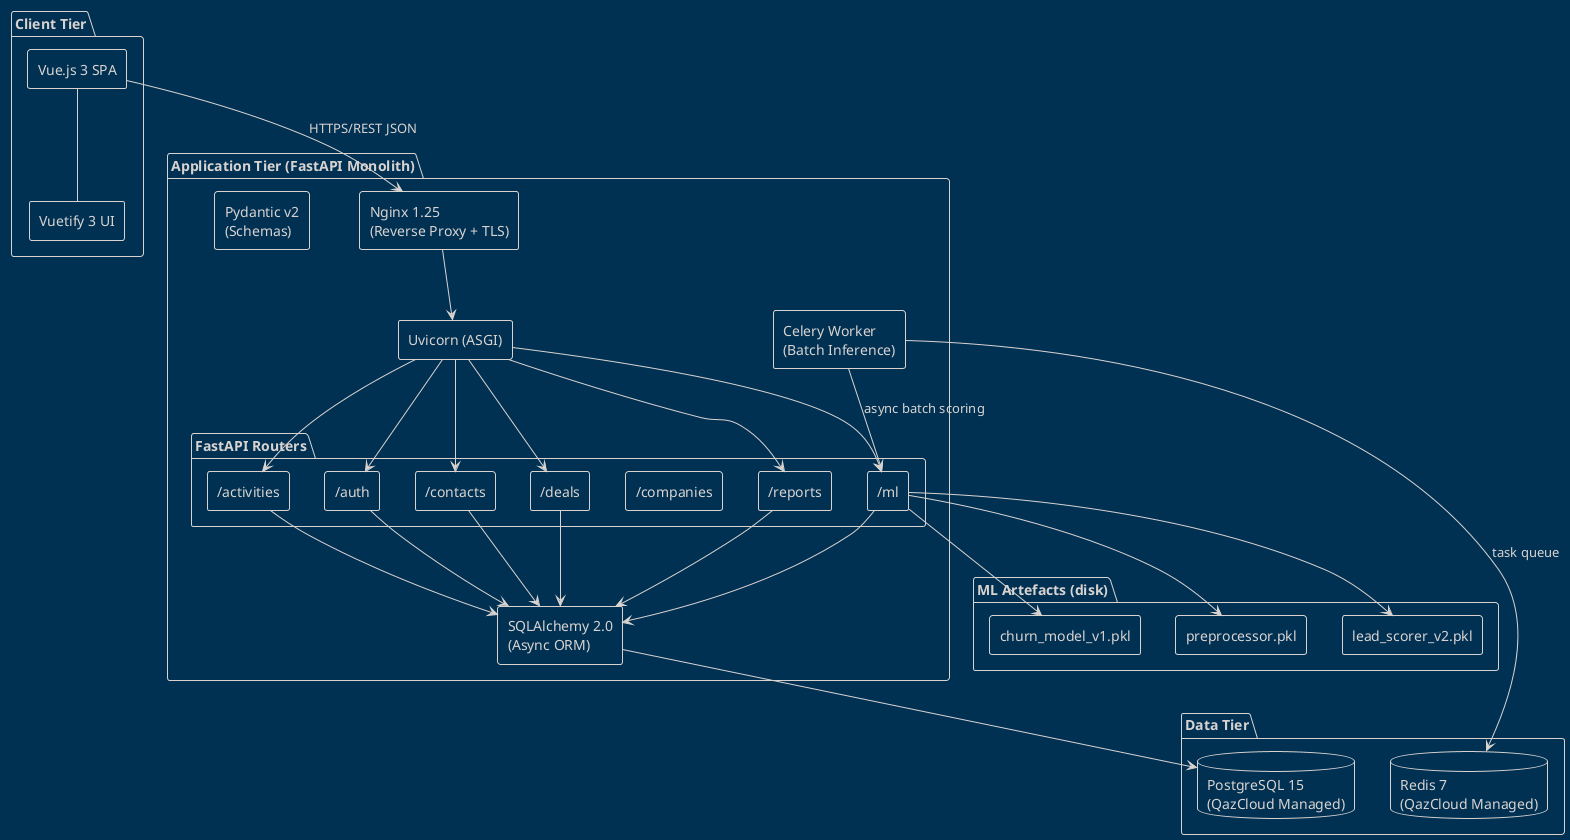
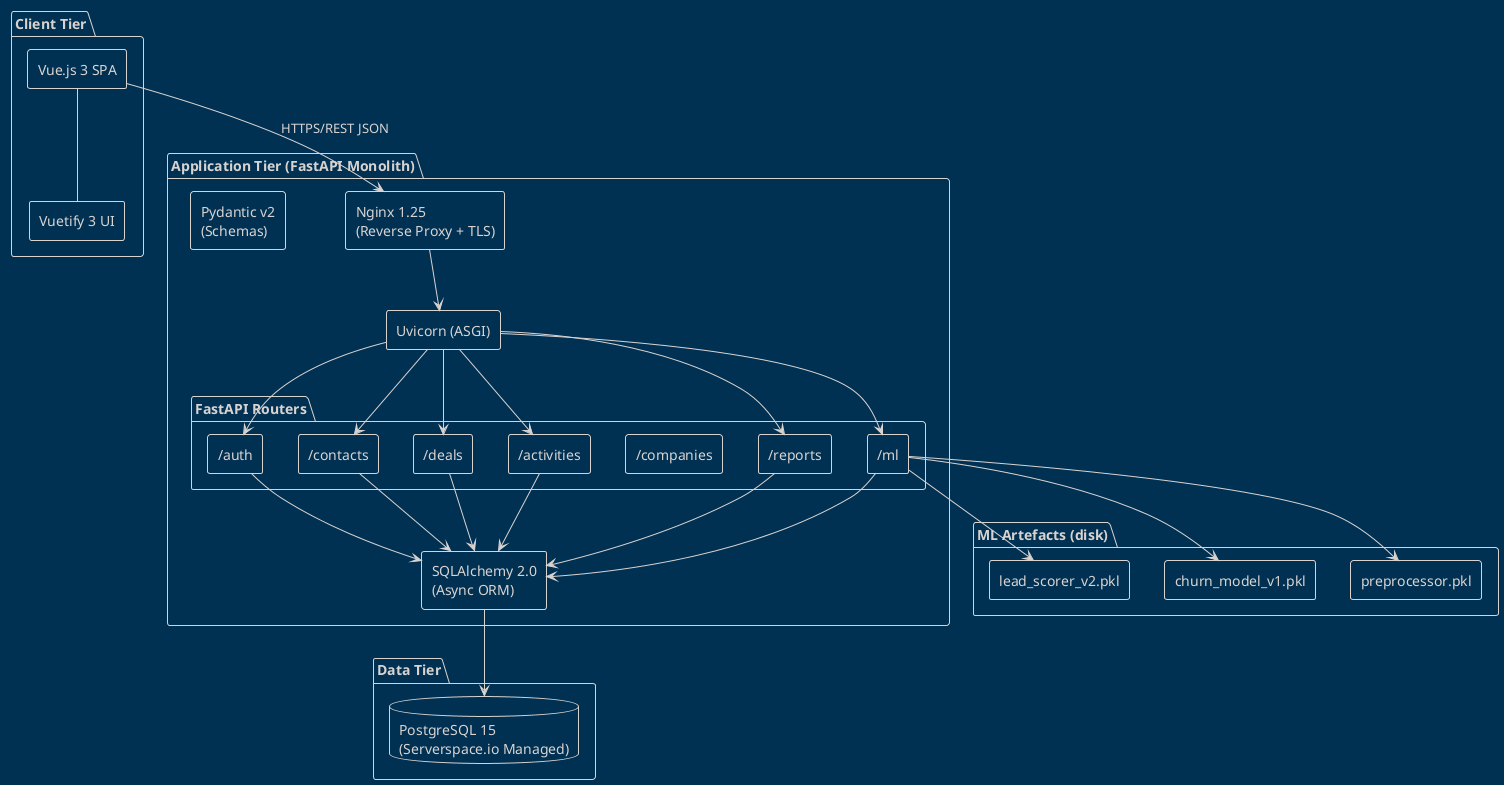
Update system design

diff --git a/manuscript/chapters/chapter04/main.tex b/manuscript/chapters/chapter04/main.tex
@@ -32,17 +32,16 @@ stack with rationale.
       Material Design, comprehensive data-table and chart support \\
     State management & Pinia & 2.1 &
       Lightweight, TypeScript-friendly successor to Vuex \\
-    Database & PostgreSQL & 18 &
-      ACID compliance, JSONB support, QazCloud managed service \\
+    Database & PostgreSQL & 16 &
+      ACID compliance, JSONB support \\
     Background tasks & FastAPI \texttt{BackgroundTasks} & built-in &
       In-process async task dispatch for batch ML inference and deferred
       email; avoids additional broker infrastructure \\
     Containerisation & Docker + Compose & 29.4.2 / 2.40 &
-      Reproducible deployments, QazCloud container support \\
+      Reproducible builds; the \texttt{Dockerfile} is detected and built automatically
+      automatically \\
     Web server & Nginx + Uvicorn & 1.30 / 0.46 &
       Production-grade ASGI serving \\
-    CI/CD & GitHub Actions & -- &
-      Free tier, YAML pipeline, Docker Hub integration \\
     API documentation & FastAPI built-in (OpenAPI 3.0) & -- &
       Automatic schema from type annotations \\
     \bottomrule
